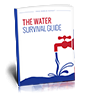
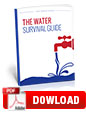
FFP-1303 Remove the "right mouse click" text and replace link w/ a link that provides a direct download

diff --git a/templates/products/F4P-bonus-manuals.php b/templates/products/F4P-bonus-manuals.php
@@ -1,21 +1,22 @@
+<?php $suppressLoadingDiv = true; ?>
 <div class="bonus-materials">
 	<h3>Food4Patriots Bonus Manuals</h3>
-		<p>Here are all your Food4Patriots bonus manuals. </p>
+	<p>Here are all your Food4Patriots bonus manuals. </p>
 	<div>
 		<div class="row">
-			<div class="col-sm-12 col-md-2 text-center"><a target="_blank" href="/templates/products/bonusDownloads.php?v=10items"><img class="img-responsive center-block" src="/media/images/f4p/f4p-bonus-top-10-sold-out-86x99.png" alt="" /></a></div>
-			<div class="col-sm-12 col-md-4 margin-b-20 right-border"><a target="_blank" href="/templates/products/bonusDownloads.php?v=10items">Top 10 Items Sold Out <br class="hidden-xs">After Crisis</a><br />
+			<div class="col-sm-12 col-md-2 text-center"><a href="/templates/products/bonusDownloads.php?v=10items"><img class="img-responsive center-block" src="/media/images/f4p/f4p-bonus-top-10-sold-out-86x99.png" alt="" /></a></div>
+			<div class="col-sm-12 col-md-4 margin-b-20 right-border"><a href="/templates/products/bonusDownloads.php?v=10items">Top 10 Items Sold Out <br class="hidden-xs">After Crisis</a><br />
 				This is manual shows you everything you need to stock to survive a disaster.</div>
-			<div class="col-sm-12 col-md-2 text-center"><a target="_blank" href="/templates/products/bonusDownloads.php?v=groceryBills"><img class="img-responsive center-block" src="/media/images/f4p/f4p-bonus-grocery-bills-half-86x99.png" alt=""></a></div>
-			<div class="col-sm-12 col-md-4 margin-b-20"><a target="_blank" href="/templates/products/bonusDownloads.php?v=groceryBills">How To Cut Your Grocery Bills In Half Guide</a><br />
+			<div class="col-sm-12 col-md-2 text-center"><a href="/templates/products/bonusDownloads.php?v=groceryBills"><img class="img-responsive center-block" src="/media/images/f4p/f4p-bonus-grocery-bills-half-86x99.png" alt=""></a></div>
+			<div class="col-sm-12 col-md-4 margin-b-20"><a href="/templates/products/bonusDownloads.php?v=groceryBills">How To Cut Your Grocery Bills In Half Guide</a><br />
 				Here's the step-by-step manual showing you how to save on your grocery bill.</div>
 		</div>
 		<div class="row">
-			<div class="col-sm-12 col-md-2 text-center"><a target="_blank" href="/templates/products/bonusDownloads.php?v=gardenGuide"><img class="img-responsive center-block" src="/media/images/f4p/f4p-bonus-survival-garden-guide-86x99.png" alt="" /></a></div>
-			<div class="col-sm-12 col-md-4 margin-b-20 right-border"><a target="_blank" href="/templates/products/bonusDownloads.php?v=gardenGuide">The Survival Garden Guide</a><br />
+			<div class="col-sm-12 col-md-2 text-center"><a href="/templates/products/bonusDownloads.php?v=gardenGuide"><img class="img-responsive center-block" src="/media/images/f4p/f4p-bonus-survival-garden-guide-86x99.png" alt="" /></a></div>
+			<div class="col-sm-12 col-md-4 margin-b-20 right-border"><a href="/templates/products/bonusDownloads.php?v=gardenGuide">The Survival Garden Guide</a><br />
 				This is the manual showing you the critical steps necessary to plant and grow your survival garden.</div>
-			<div class="col-sm-12 col-md-2 text-center"><a target="_blank" href="/templates/products/bonusDownloads.php?v=waterGuide"><img class="img-responsive center-block" src="/media/images/f4p/f4p-bonus-water-survival-guide-86x99.png" alt=""></a></div>
-			<div class="col-sm-12 col-md-4 margin-b-20"><a target="_blank" href="/templates/products/bonusDownloads.php?v=waterGuide">The Water Survival Guide</a><br />
+			<div class="col-sm-12 col-md-2 text-center"><a href="/templates/products/bonusDownloads.php?v=waterGuide"><img class="img-responsive center-block" src="/media/images/f4p/f4p-bonus-water-survival-guide-86x99.png" alt=""></a></div>
+			<div class="col-sm-12 col-md-4 margin-b-20"><a href="/templates/products/bonusDownloads.php?v=waterGuide">The Water Survival Guide</a><br />
 				This is the manual showing you the critical steps necessary to survive a water crisis.</div>
 		</div>
 	</div>

diff --git a/templates/products/bonusDownloads.php b/templates/products/bonusDownloads.php
@@ -15,17 +15,17 @@ if($_GET["v"]) {
 if($variation == "10items") {
 	header('Content-Type: application/pdf');
 	header('Content-disposition: attachment;filename=F4P-10-Items-After-Crisis.pdf');
-	readfile('../../media/pdf/F4P-10-Items-After-Crisis.pdf');
+	readfile('http://media.4patriots.com/pdf/bonus/F4P-10-Items-After-Crisis.pdf');
 } elseif($variation == "groceryBills") {
 	header('Content-Type: application/pdf');
 	header('Content-disposition: attachment;filename=F4P-Cut-Grocery-Bills-Half.pdf');
-	readfile('../../media/pdf/F4P-Cut-Grocery-Bills-Half.pdf');
+	readfile('http://media.4patriots.com/pdf/bonus/F4P-Cut-Grocery-Bills-Half.pdf');
 } elseif($variation == "gardenGuide") {
 	header('Content-Type: application/pdf');
 	header('Content-disposition: attachment;filename=F4P-Survival-Garden-Guide.pdf');
-	readfile('../../media/pdf/F4P-Survival-Garden-Guide.pdf');
+	readfile('http://media.4patriots.com/pdf/bonus/F4P-Survival-Garden-Guide.pdf');
 } elseif($variation == "waterGuide") {
 	header('Content-Type: application/pdf');
 	header('Content-disposition: attachment;filename=F4P-Water-Survival-Guide.pdf');
-	readfile('../../media/pdf/F4P-Water-Survival-Guide.pdf');
+	readfile('http://media.4patriots.com/pdf/bonus/F4P-Water-Survival-Guide.pdf');
 }

diff --git a/templates/template-bottom.php b/templates/template-bottom.php
@@ -25,6 +25,7 @@ if(!in_array($_SERVER["PHP_SELF"], $suppressOlark)) {
 	include_once("chat-olark.php");
 }
 ?>
+<?php if($suppressLoadingDiv != true) { ?>
 <script>
 window.onbeforeunload = grayOut;
 function grayOut(){
@@ -32,6 +33,7 @@ var ldiv = document.getElementById('LoadingDiv');
 ldiv.style.display='block';
 }
 </script>
+<?php } ?>
 <?php
 if($template["exitPopType"] == "vwo") {
 	include_once ('exit-pop-vwo.php');
